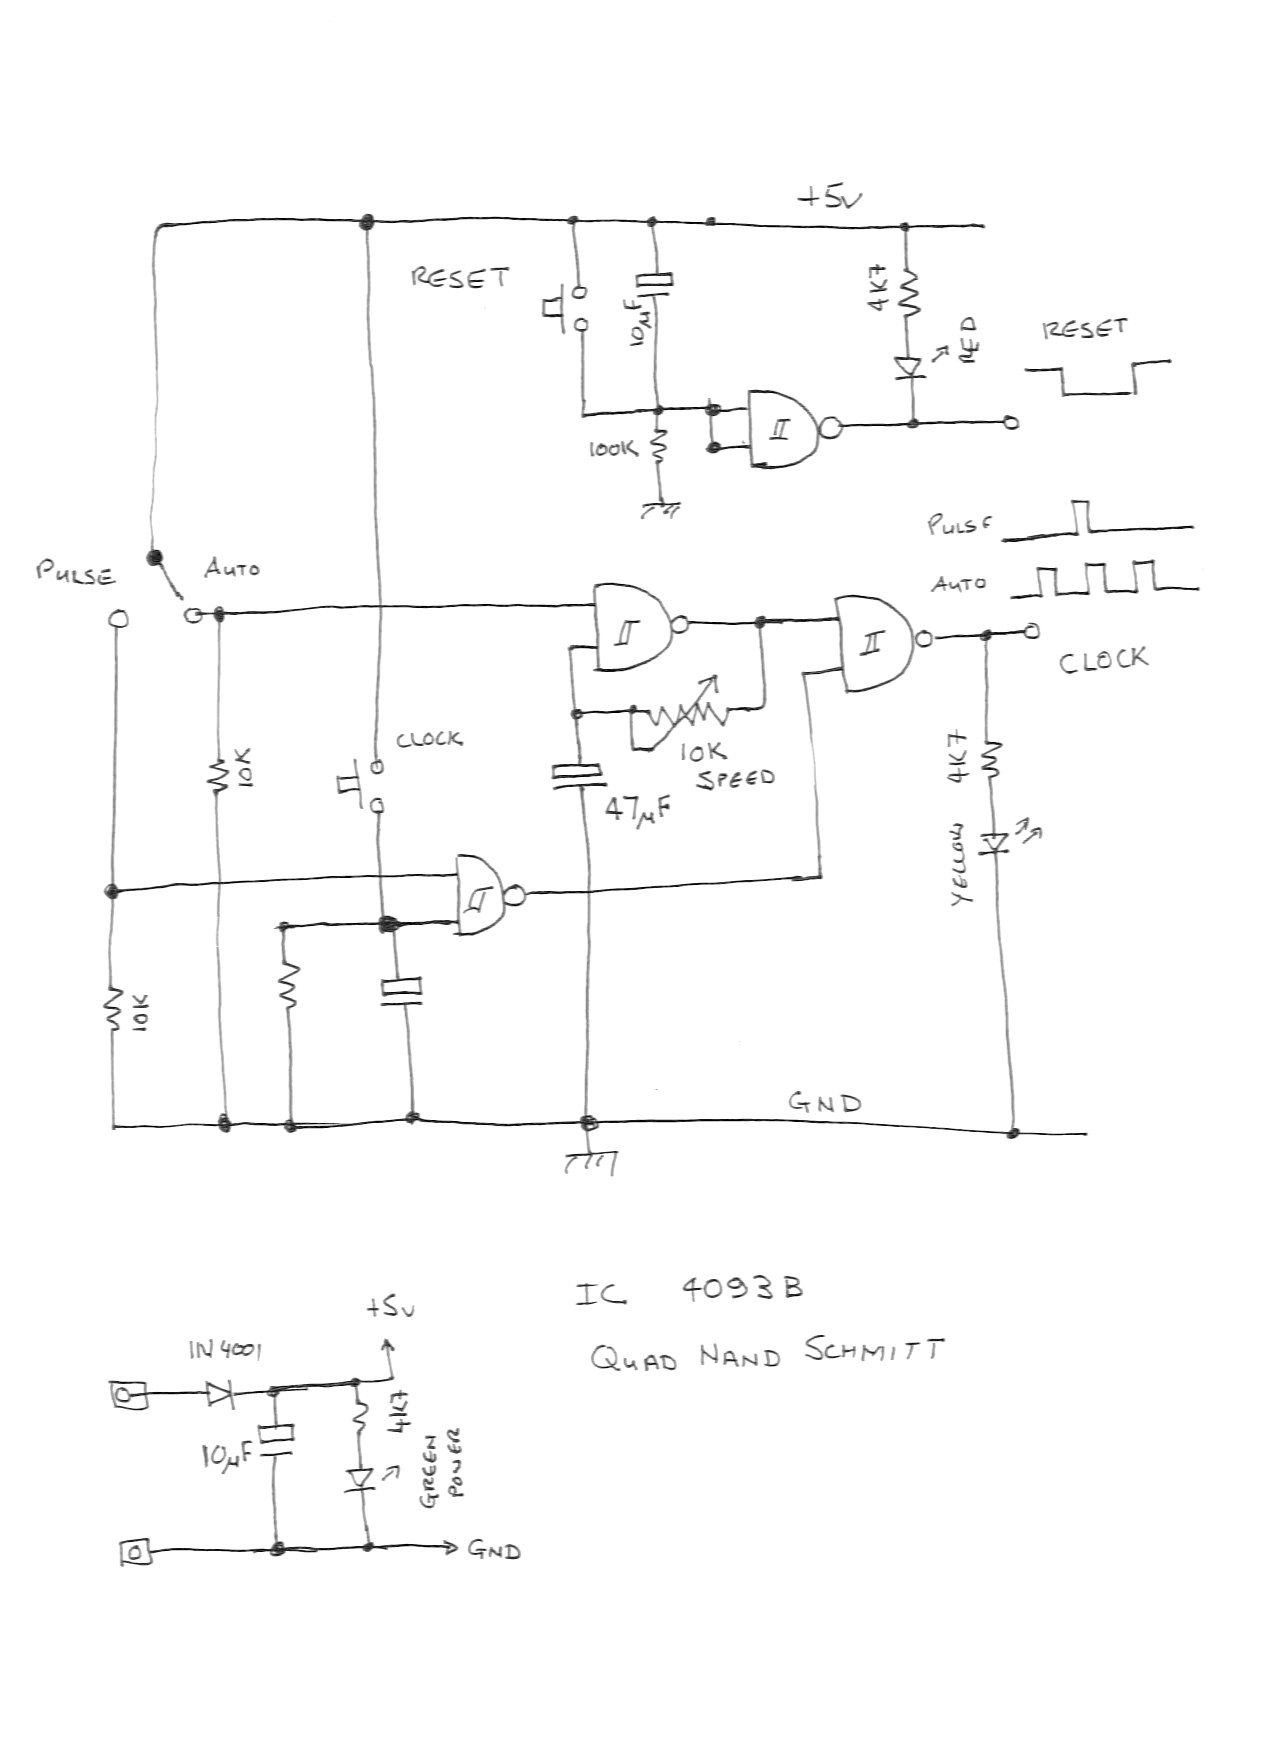
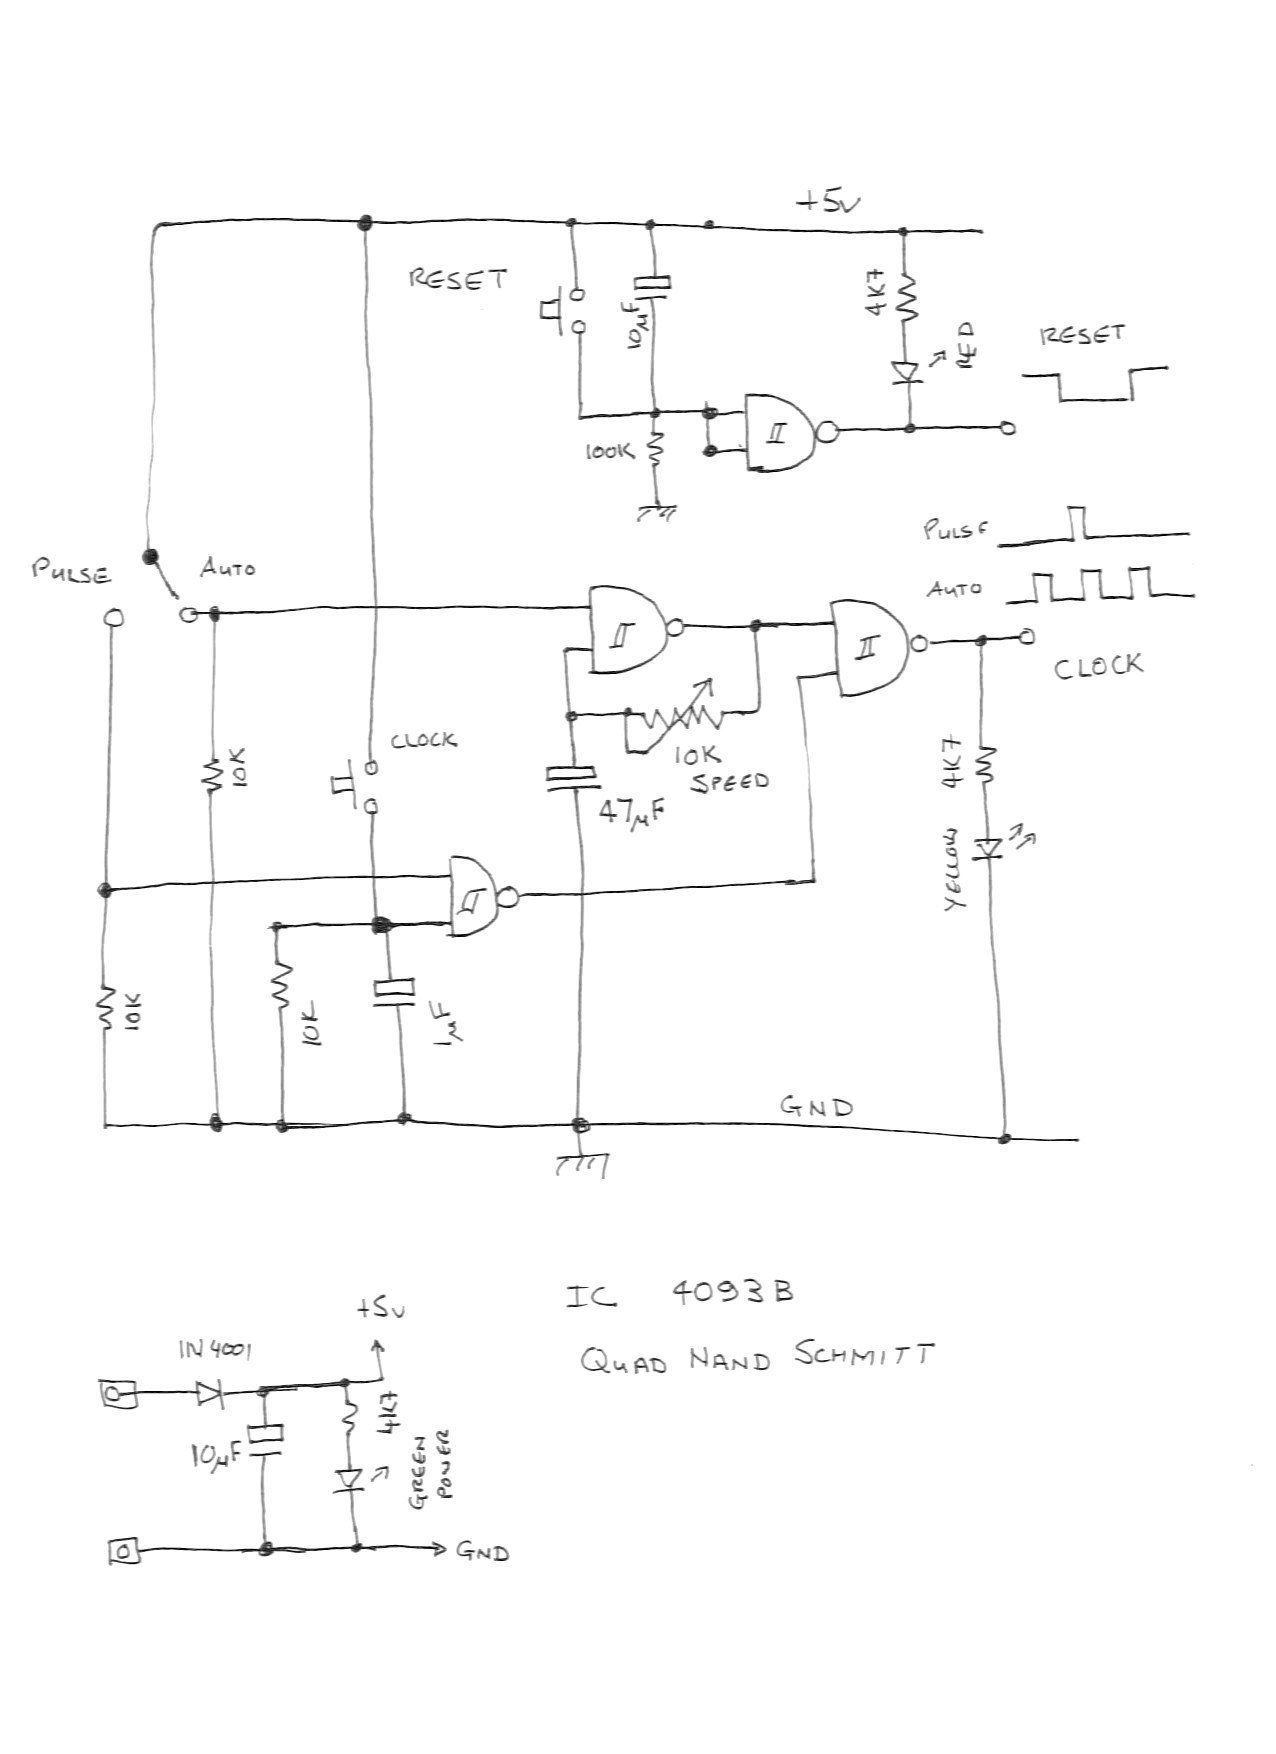
updated values in diagram

diff --git a/Development/ClockCircuit/README.md b/Development/ClockCircuit/README.md
@@ -6,10 +6,16 @@ I like his aproach to building his 6502 machine, and will most likely proceed in
 
 ## Clock Circuit
 After seeing the usefulness of Ben's clock circuit https://eater.net/8bit/clock, I opted to make my own.
-I opted for a somewhat different circuit, and added a power up reset.
+
+I opted for a somewhat different (cruder) circuit, and added a reset circuit.
 
 <image src="ClockCircuit.jpg"/>
 
-Please excuse the hand-drawn diagram, but it's better than no diagram..
+Please excuse the hand-drawn diagram, but I figure even a badly hand-drawn diagram is better than no diagram at all ;-)
+
+The negative going reset pulse is generated at power=up, but can also be triggered by the push button.
+The positive going clock pulses can be manually generated, or auto-generated via a variable speed oscillator.
+
+
 
 <image src="CircuitDiagram.png"/>
